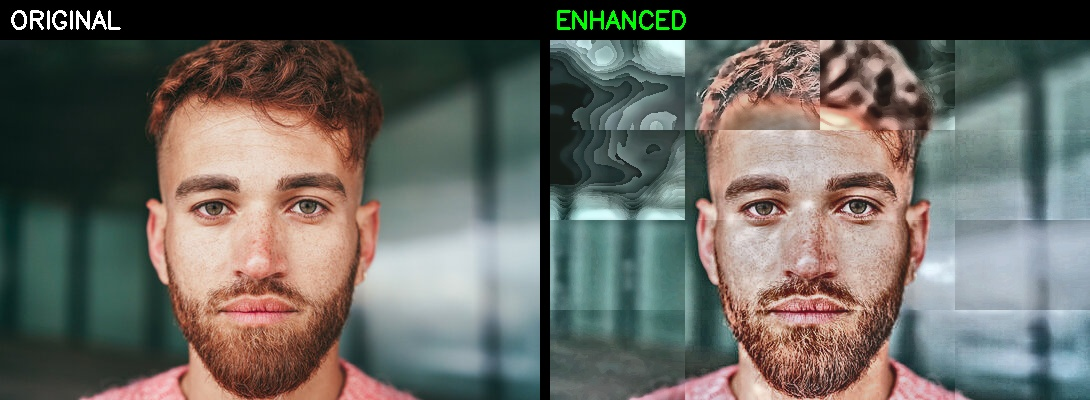
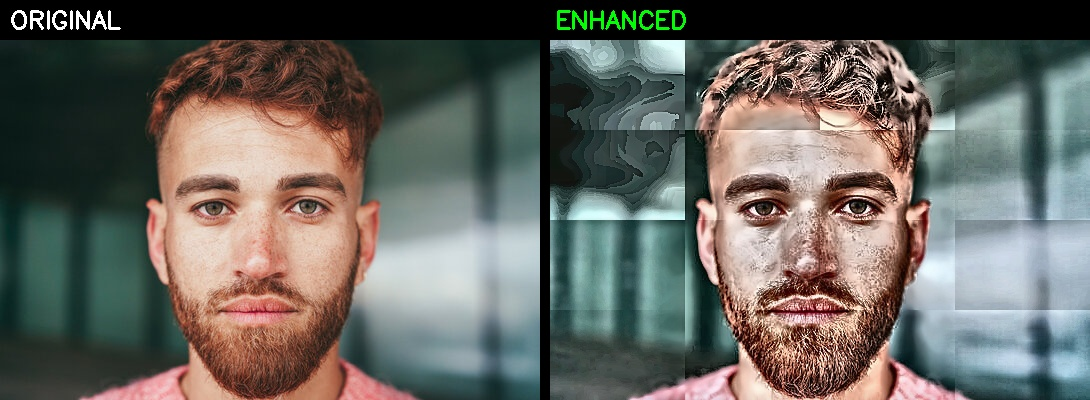
fix: tune enhancement pipeline for real classroom images with face preservation
Made-with: Cursor

diff --git a/enhancement/enhancement_config.py b/enhancement/enhancement_config.py
@@ -67,10 +67,10 @@ CLAHE_TILE_GRID_SIZE_LARGE = (16, 16)
 
 CLAHE_SETTINGS = {
     "dark": {
-        "clip_limit": 4.0,
+        "clip_limit": 2.5,
         "tile_grid_size": CLAHE_TILE_GRID_SIZE,
         "iterations": 2,
-        "blend_weight": 0.85,
+        "blend_weight": 0.70,
     },
     "shadow": {
         "clip_limit": 2.5,
@@ -102,8 +102,8 @@ CLAHE_SETTINGS = {
 # Gamma Correction Settings Per Zone Category
 # ---------------------------------------------------------------------------
 GAMMA_SETTINGS = {
-    "dark": {"gamma": 0.6, "adaptive": True, "min_gamma": 0.4, "max_gamma": 0.8},
-    "shadow": {"gamma": 0.8, "adaptive": True, "min_gamma": 0.6, "max_gamma": 0.9},
+    "dark": {"gamma": 0.75, "adaptive": True, "min_gamma": 0.6, "max_gamma": 0.85},
+    "shadow": {"gamma": 0.85, "adaptive": True, "min_gamma": 0.7, "max_gamma": 0.9},
     "normal": {"gamma": 0.95, "adaptive": False, "min_gamma": 0.9, "max_gamma": 1.0},
     "bright": {"gamma": 1.2, "adaptive": True, "min_gamma": 1.1, "max_gamma": 1.4},
     "overexposed": {"gamma": 1.5, "adaptive": True, "min_gamma": 1.3, "max_gamma": 1.8},
@@ -117,16 +117,16 @@ GAMMA_LOOKUP_TABLE_SIZE = 256
 NOISE_REDUCTION_SETTINGS = {
     "dark": {
         "method": "nlm",
-        "h_luminance": 12,
-        "h_color": 12,
+        "h_luminance": 6,
+        "h_color": 6,
         "template_window": 7,
         "search_window": 21,
         "bilateral_d": 9,
         "bilateral_sigma_color": 75,
         "bilateral_sigma_space": 75,
         "median_ksize": 5,
-        "apply_bilateral_pre": True,
-        "apply_median_post": True,
+        "apply_bilateral_pre": False,
+        "apply_median_post": False,
     },
     "shadow": {
         "method": "bilateral",
@@ -240,9 +240,9 @@ SHADOW_DILATION_KERNEL_SIZE = 5
 SHADOW_DILATION_ITERATIONS = 2
 
 SHADOW_ILLUMINATION_BLUR_KSIZE = 51
-SHADOW_COMPENSATION_STRENGTH = 0.8
-SHADOW_COMPENSATION_BLEND = 0.7
-SHADOW_REMOVAL_GAMMA = 0.85
+SHADOW_COMPENSATION_STRENGTH = 0.5
+SHADOW_COMPENSATION_BLEND = 0.5
+SHADOW_REMOVAL_GAMMA = 0.9
 
 # ---------------------------------------------------------------------------
 # White Balance
@@ -283,15 +283,15 @@ TONE_MAP_DRAGO_SATURATION = 1.0
 TONE_MAP_DRAGO_BIAS = 0.85
 TONE_MAP_DRAGO_GAMMA = 1.0
 
-TONE_MAP_BLEND_STRENGTH = 0.3
+TONE_MAP_BLEND_STRENGTH = 0.2
 
 # ---------------------------------------------------------------------------
 # Brightness Normalization
 # ---------------------------------------------------------------------------
 BRIGHTNESS_TARGET_MEAN = 130.0
 BRIGHTNESS_TARGET_STD = 40.0
-BRIGHTNESS_ADJUSTMENT_STRENGTH = 0.7
-BRIGHTNESS_MAX_SHIFT = 50
+BRIGHTNESS_ADJUSTMENT_STRENGTH = 0.4
+BRIGHTNESS_MAX_SHIFT = 30
 BRIGHTNESS_PRESERVE_HIGHLIGHTS = True
 BRIGHTNESS_HIGHLIGHT_THRESHOLD = 240
 BRIGHTNESS_PRESERVE_SHADOWS = True

diff --git a/enhancement/image_loader.py b/enhancement/image_loader.py
@@ -74,7 +74,7 @@ def validate_image_path(image_path: str) -> bool:
 
 
 def validate_image_dimensions(image: np.ndarray) -> bool:
-    """Check that the loaded image has valid dimensions."""
+    """Check that the loaded image has valid dimensions (min only; oversized images are auto-resized)."""
     if image is None:
         return False
     if len(image.shape) < 2:
@@ -82,9 +82,19 @@ def validate_image_dimensions(image: np.ndarray) -> bool:
     height, width = image.shape[:2]
     if width < ecfg.MIN_IMAGE_WIDTH or height < ecfg.MIN_IMAGE_HEIGHT:
         return False
-    if width > ecfg.MAX_IMAGE_WIDTH or height > ecfg.MAX_IMAGE_HEIGHT:
-        return False
     return True
+
+
+def downscale_if_oversized(image: np.ndarray) -> np.ndarray:
+    """Proportionally downscale an image if it exceeds MAX dimensions, no padding."""
+    height, width = image.shape[:2]
+    if width <= ecfg.MAX_IMAGE_WIDTH and height <= ecfg.MAX_IMAGE_HEIGHT:
+        return image
+
+    scale = min(ecfg.MAX_IMAGE_WIDTH / width, ecfg.MAX_IMAGE_HEIGHT / height)
+    new_w = int(width * scale)
+    new_h = int(height * scale)
+    return cv2.resize(image, (new_w, new_h), interpolation=cv2.INTER_AREA)
 
 
 def load_raw_image(image_path: str) -> Optional[np.ndarray]:
@@ -232,8 +242,8 @@ def load_and_prepare_image(
         metadata.resized_width = prepared.shape[1]
         metadata.resized_height = prepared.shape[0]
     else:
-        prepared = raw_image.copy()
-        metadata.resized_width = metadata.original_width
-        metadata.resized_height = metadata.original_height
+        prepared = downscale_if_oversized(raw_image)
+        metadata.resized_width = prepared.shape[1]
+        metadata.resized_height = prepared.shape[0]
 
     return prepared, metadata

diff --git a/enhancement/conditional_pipeline.py b/enhancement/conditional_pipeline.py
@@ -83,15 +83,13 @@ def enhance_dark_zone(
     l_ch, a_ch, b_ch = split_lab_channels(result, use_cache=False)
     l_stretched = histogram_stretching(l_ch)
     l_clahe = apply_zone_clahe(l_stretched, "dark")
-    l_eq = blended_histogram_equalization(l_clahe, 0.85, 0.15)
+    l_eq = blended_histogram_equalization(l_clahe, 0.70, 0.30)
     merged = merge_lab_channels(l_eq, a_ch, b_ch)
     result = lab_to_bgr(merged)
 
     result = apply_zone_gamma(result, "dark", stats.mean_brightness)
 
     result = smart_sharpen(result, "dark", stats.noise_estimate)
-
-    result = apply_bilateral_smooth(result, d=5, sigma_color=30, sigma_space=30)
 
     return result
 
@@ -125,7 +123,7 @@ def enhance_shadow_zone(
     result = apply_zone_gamma(result, "shadow", stats.mean_brightness)
 
     result = full_edge_preserving_pipeline(
-        result, use_guided=False, use_bilateral=True, blend_strength=0.4
+        result, use_guided=False, use_bilateral=True, blend_strength=0.25
     )
 
     result = smart_sharpen(result, "shadow", stats.noise_estimate)

diff --git a/enhancement/face_region_enhancer.py b/enhancement/face_region_enhancer.py
@@ -52,7 +52,7 @@ def load_face_detector():
     """
     try:
         from mtcnn import MTCNN
-        detector = MTCNN(min_face_size=ecfg.FACE_DETECTION_MIN_SIZE[0])
+        detector = MTCNN()
         return detector
     except ImportError:
         print("Warning: MTCNN not installed. Face enhancement will be skipped.")
